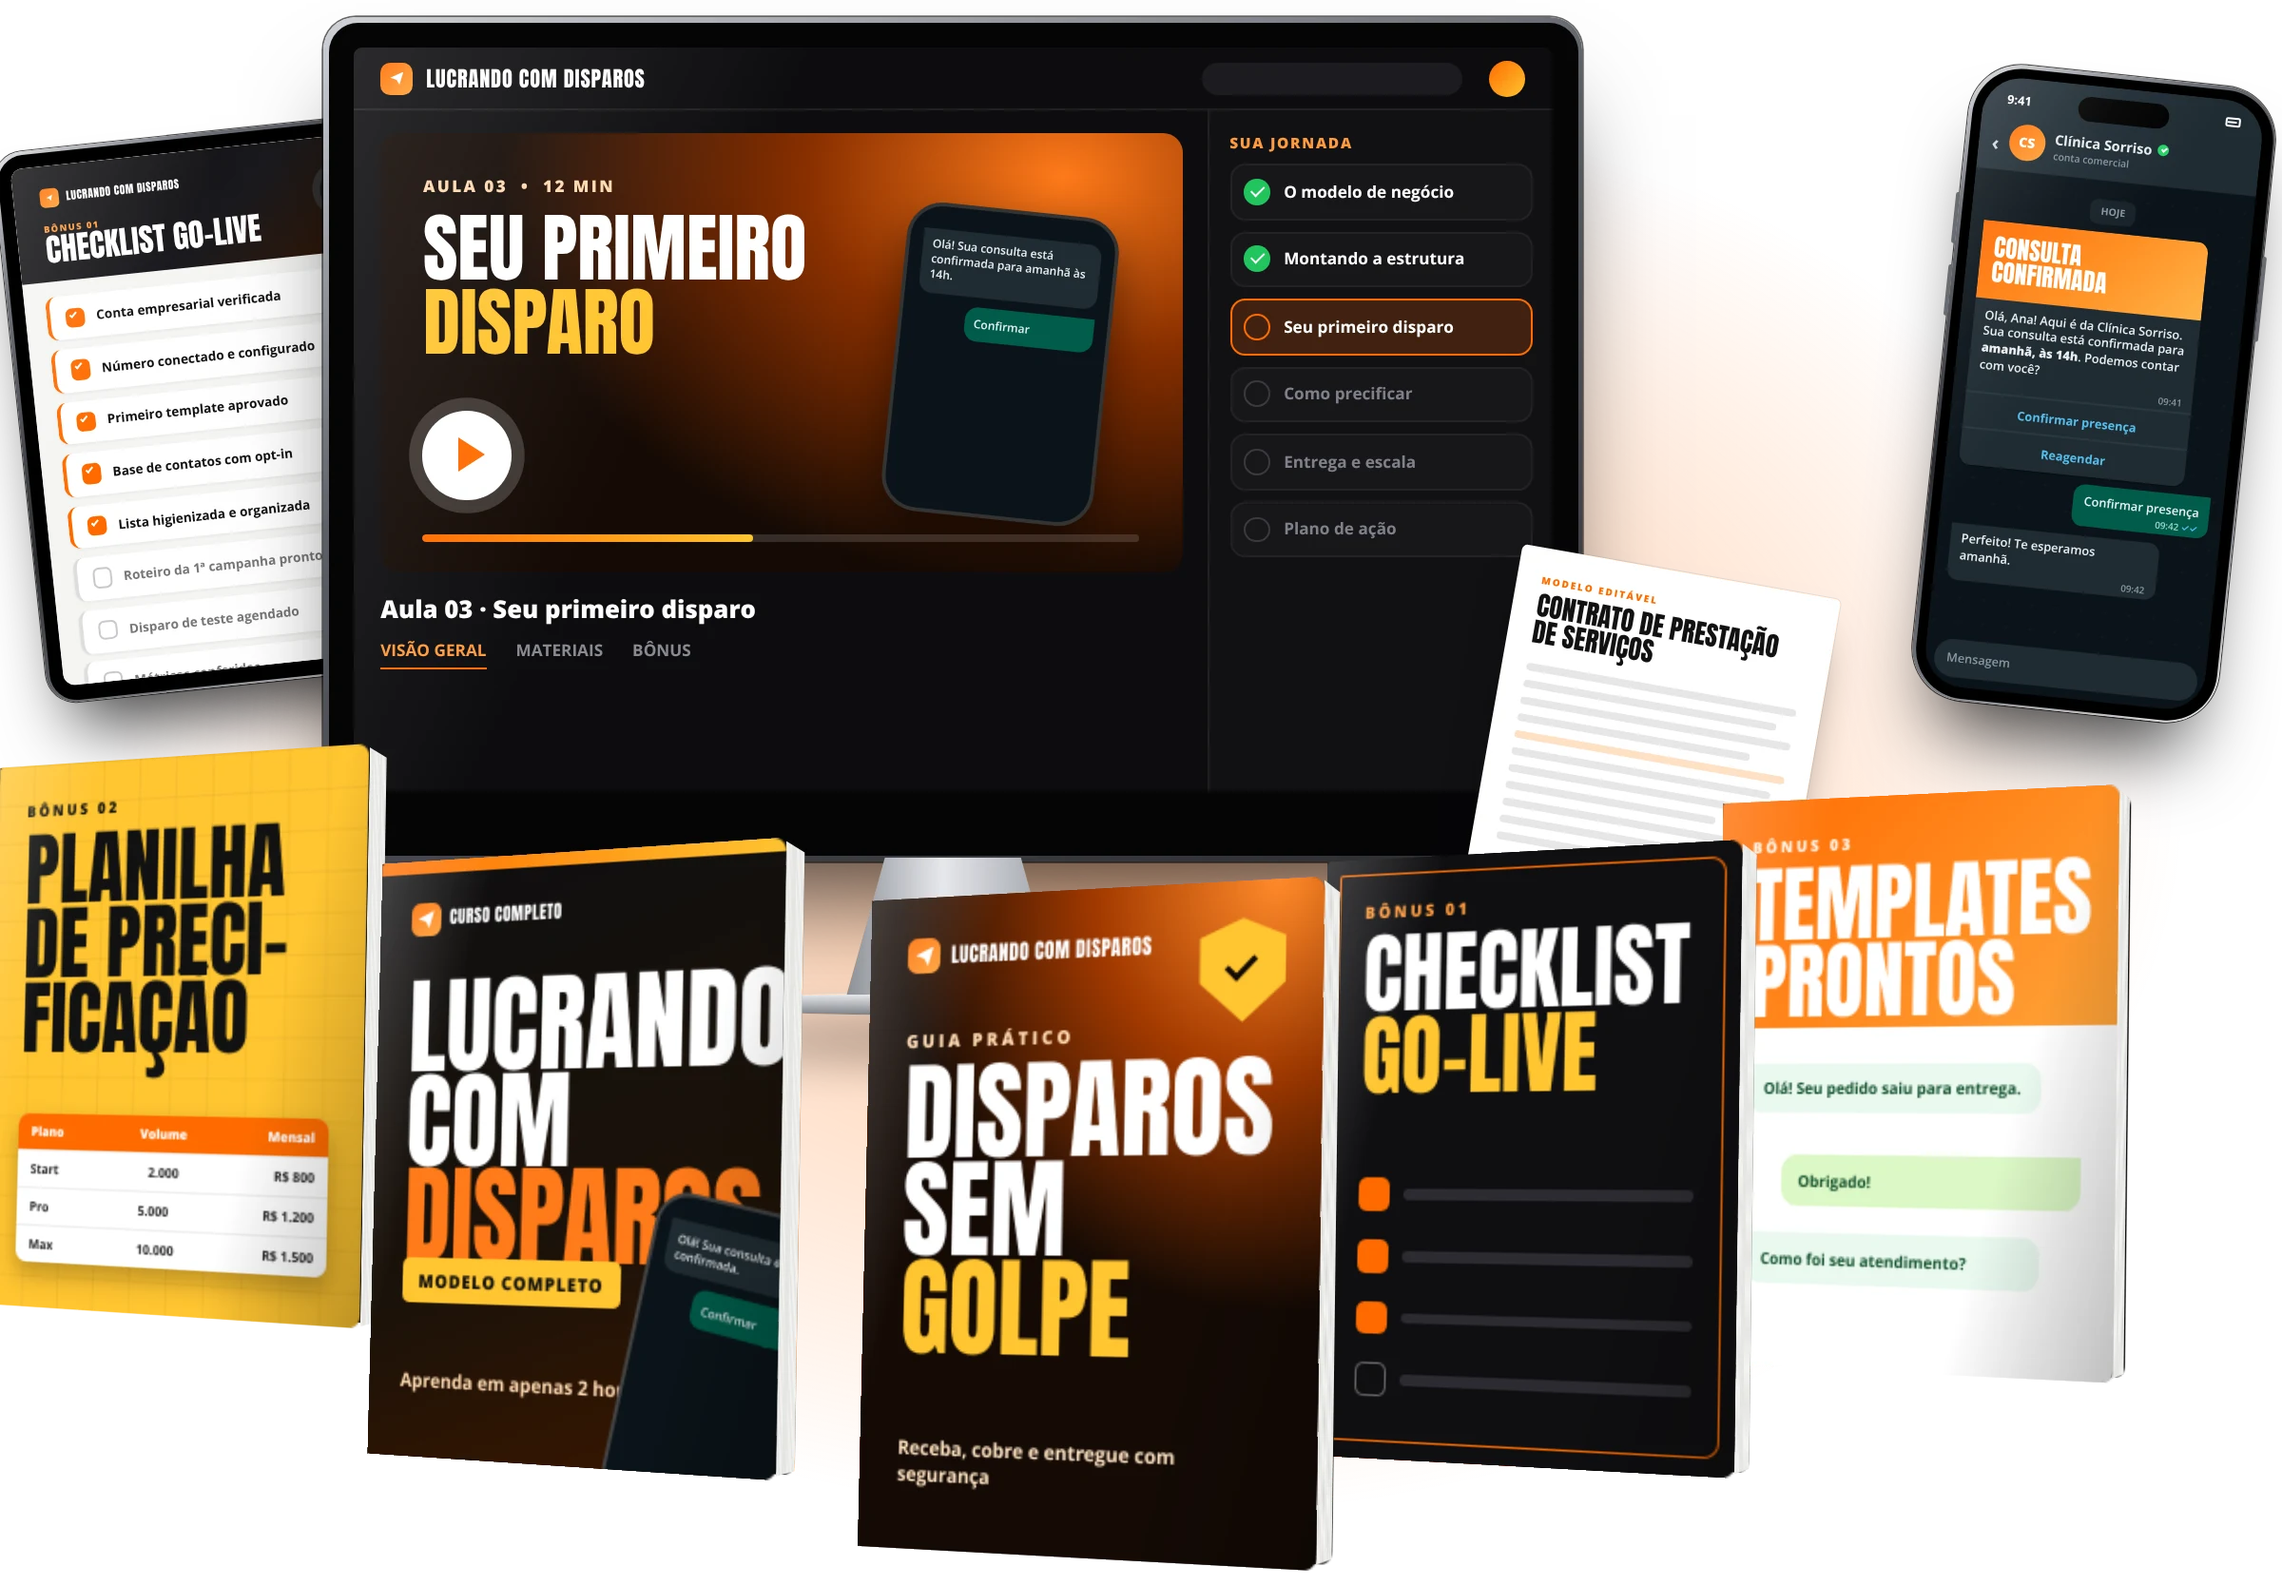
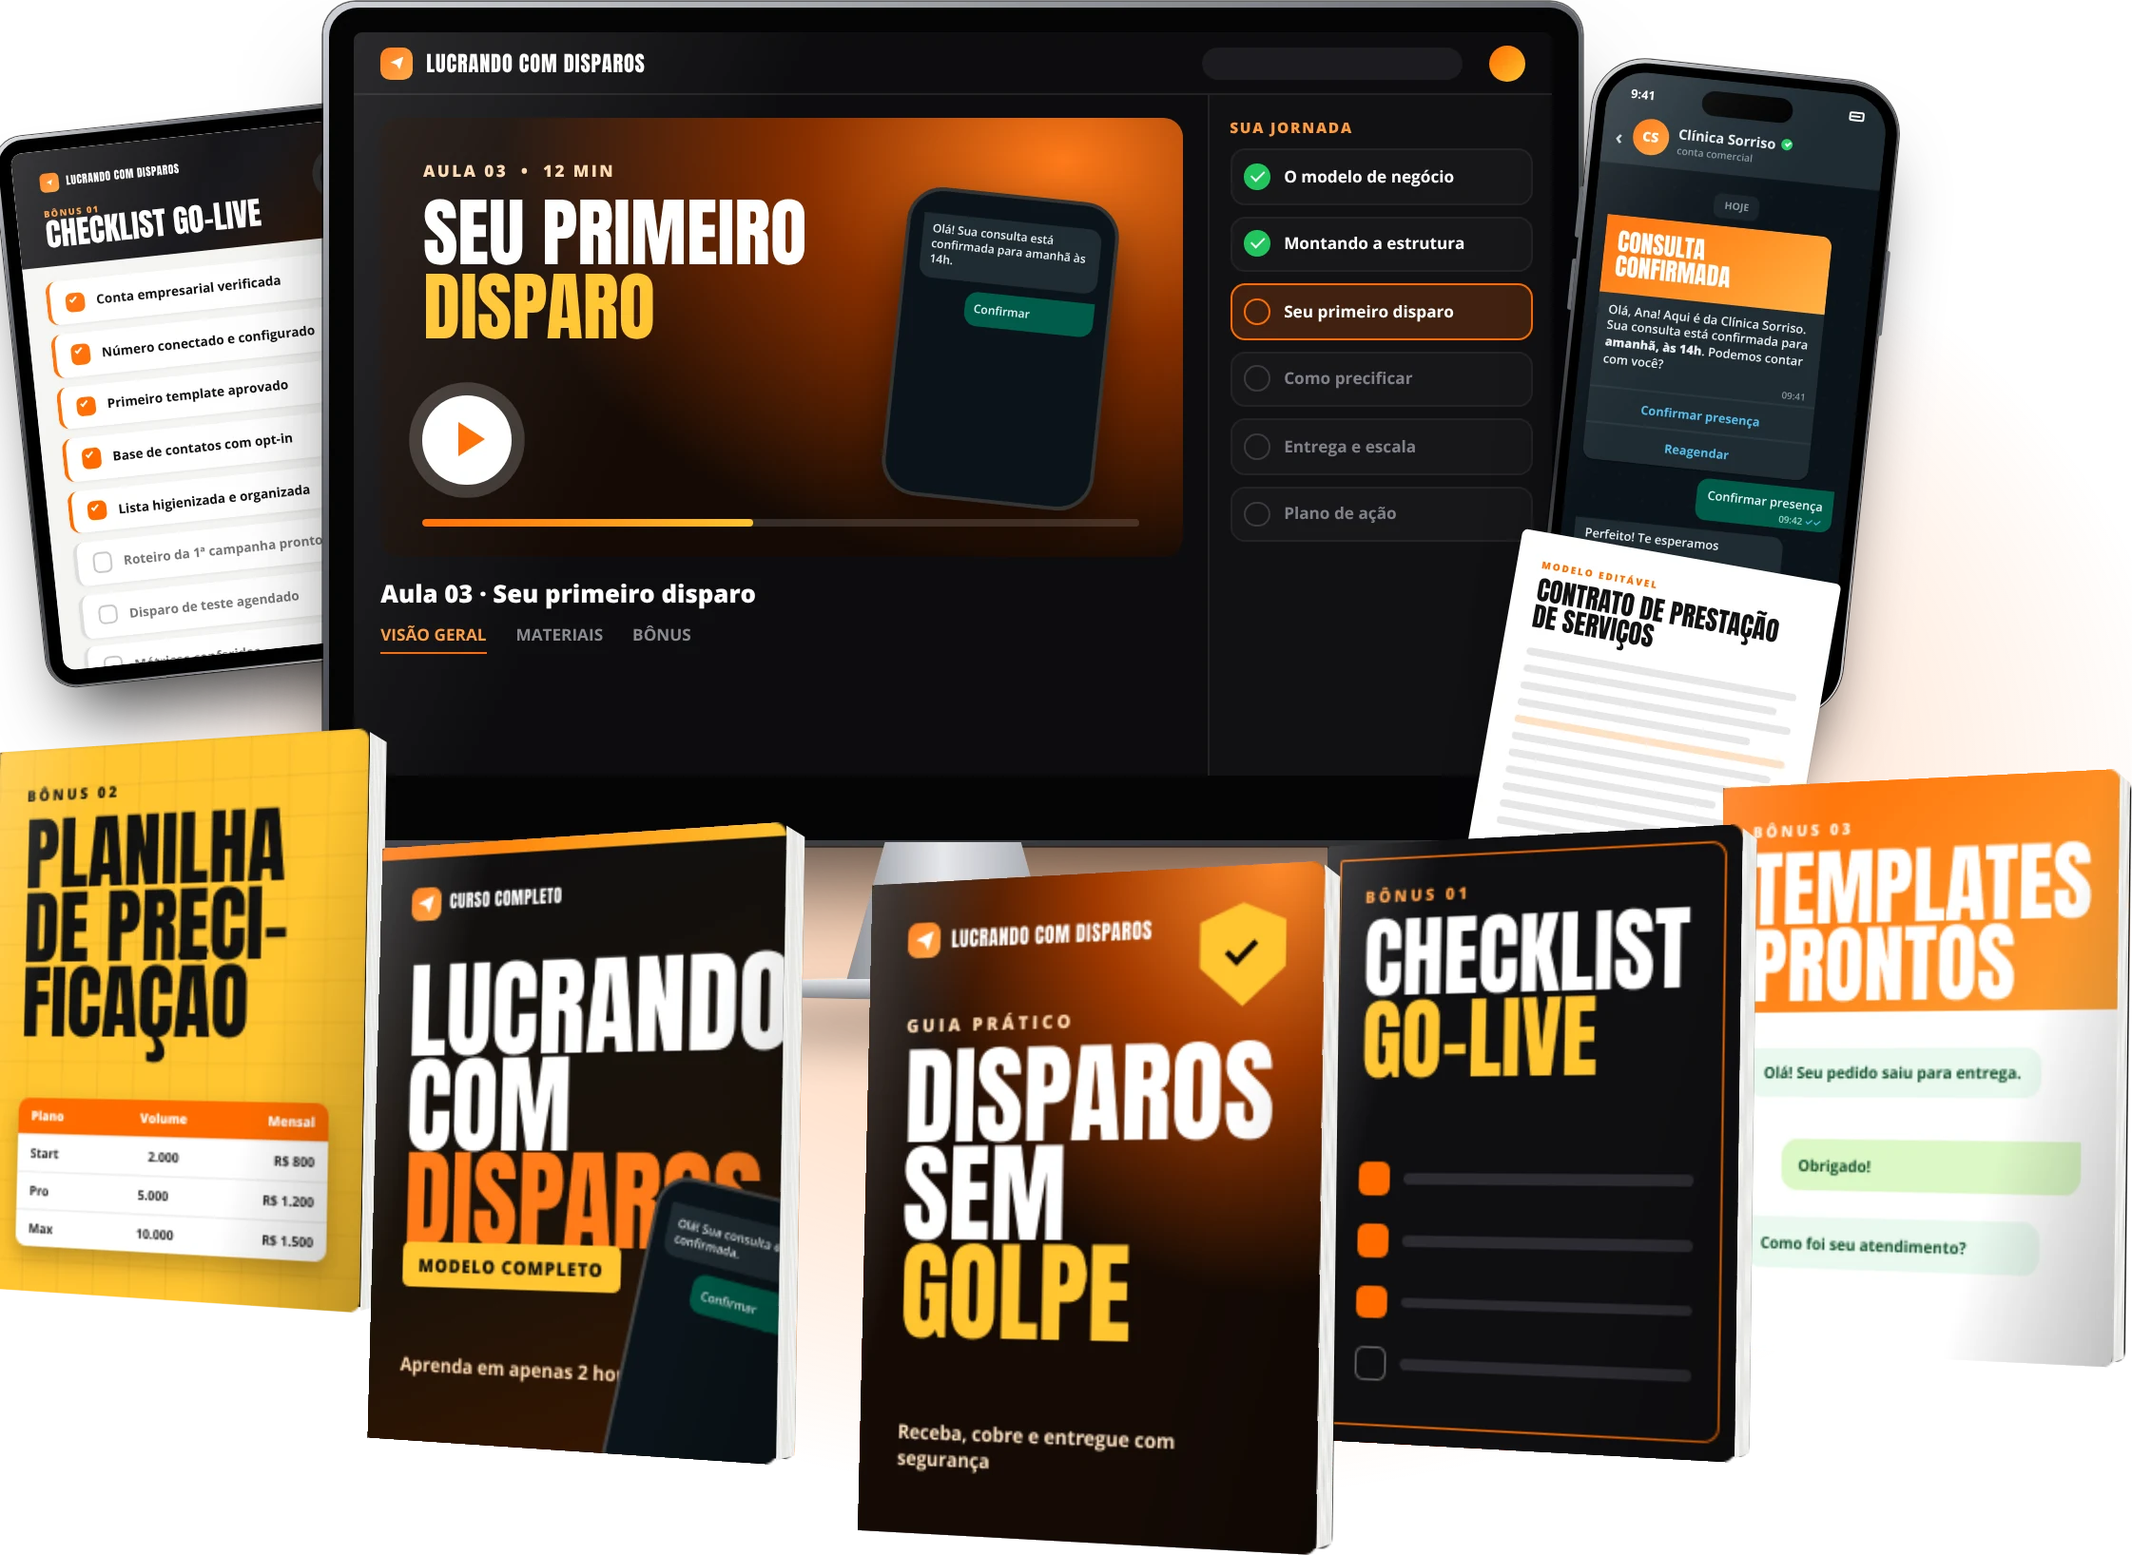
Aproxima celular do monitor no mockup e alinha título do plano
Claude-Session: https://claude.ai/code/session_019361DkPq5jKsevP4xkSyrr

diff --git a/index.html b/index.html
@@ -34,9 +34,9 @@ img{display:block;max-width:100%;height:auto}
 <div role="timer" aria-label="Tempo restante da oferta de hoje" style="display:flex;align-items:center;gap:6px">
 <div style="background:#0A0A0A;border-radius:8px;min-width:58px;padding:4px 6px;text-align:center"><div class="d" style="font-size:28px;line-height:1.1;color:#FFC531" id="hh">07</div><div style="font-size:9px;font-weight:800;letter-spacing:.12em;color:#C9C9CF">HORAS</div></div>
 <span class="d" style="font-size:24px">:</span>
-<div style="background:#0A0A0A;border-radius:8px;min-width:58px;padding:4px 6px;text-align:center"><div class="d" style="font-size:28px;line-height:1.1;color:#FFC531" id="mm">47</div><div style="font-size:9px;font-weight:800;letter-spacing:.12em;color:#C9C9CF">MIN</div></div>
+<div style="background:#0A0A0A;border-radius:8px;min-width:58px;padding:4px 6px;text-align:center"><div class="d" style="font-size:28px;line-height:1.1;color:#FFC531" id="mm">43</div><div style="font-size:9px;font-weight:800;letter-spacing:.12em;color:#C9C9CF">MIN</div></div>
 <span class="d" style="font-size:24px">:</span>
-<div style="background:#0A0A0A;border-radius:8px;min-width:58px;padding:4px 6px;text-align:center"><div class="d" style="font-size:28px;line-height:1.1;color:#FFC531" id="ss">03</div><div style="font-size:9px;font-weight:800;letter-spacing:.12em;color:#C9C9CF">SEG</div></div>
+<div style="background:#0A0A0A;border-radius:8px;min-width:58px;padding:4px 6px;text-align:center"><div class="d" style="font-size:28px;line-height:1.1;color:#FFC531" id="ss">49</div><div style="font-size:9px;font-weight:800;letter-spacing:.12em;color:#C9C9CF">SEG</div></div>
 </div>
 </div>
 </div>
@@ -355,7 +355,7 @@ img{display:block;max-width:100%;height:auto}
 <div class="d" style="position:absolute;left:50%;top:-30px;transform:translateX(-50%);width:84%;text-align:center;background:linear-gradient(90deg,#FFB33D,#FF6B00);color:#fff;font-size:clamp(26px,5.4vw,38px);padding:10px 12px;border-radius:12px;box-shadow:0 10px 24px rgba(0,0,0,.4);line-height:1.05">Plano completo</div>
 <img src="assets/kitB.webp" alt="Curso completo e bônus: monitor, ebooks, planilha, checklist, templates e contrato" width="2400" height="1668" style="width:100%">
 <div style="background:#0A0A0A;color:#fff;border-radius:18px;padding:22px 20px;margin-top:6px">
-<div class="d" style="text-align:center;font-size:clamp(30px,6vw,42px);line-height:1.05">Curso completo + 5 bônus</div>
+<div class="d" style="text-align:center;font-size:clamp(30px,6vw,42px);line-height:1.25"><span style="display:inline-block;white-space:nowrap">Curso completo</span> <span style="display:inline-block;white-space:nowrap">+ 5 bônus</span></div>
 <div style="margin-top:16px;display:flex;flex-direction:column">
 
 <div style="display:flex;gap:12px;align-items:flex-start;padding:11px 0;border-top:1px dashed #3a3a42;font-size:15.5px;line-height:1.35"><svg viewBox="0 0 24 24" width="20" height="20" fill="none" stroke="#22C55E" stroke-width="3.4" stroke-linecap="round" stroke-linejoin="round" style="flex:none;margin-top:1px" aria-hidden="true"><polyline points="4 12 10 18 20 6"></polyline></svg><span><strong>CURSO COMPLETO:</strong> Lucrando com Disparos, em cerca de 2 horas</span></div>
